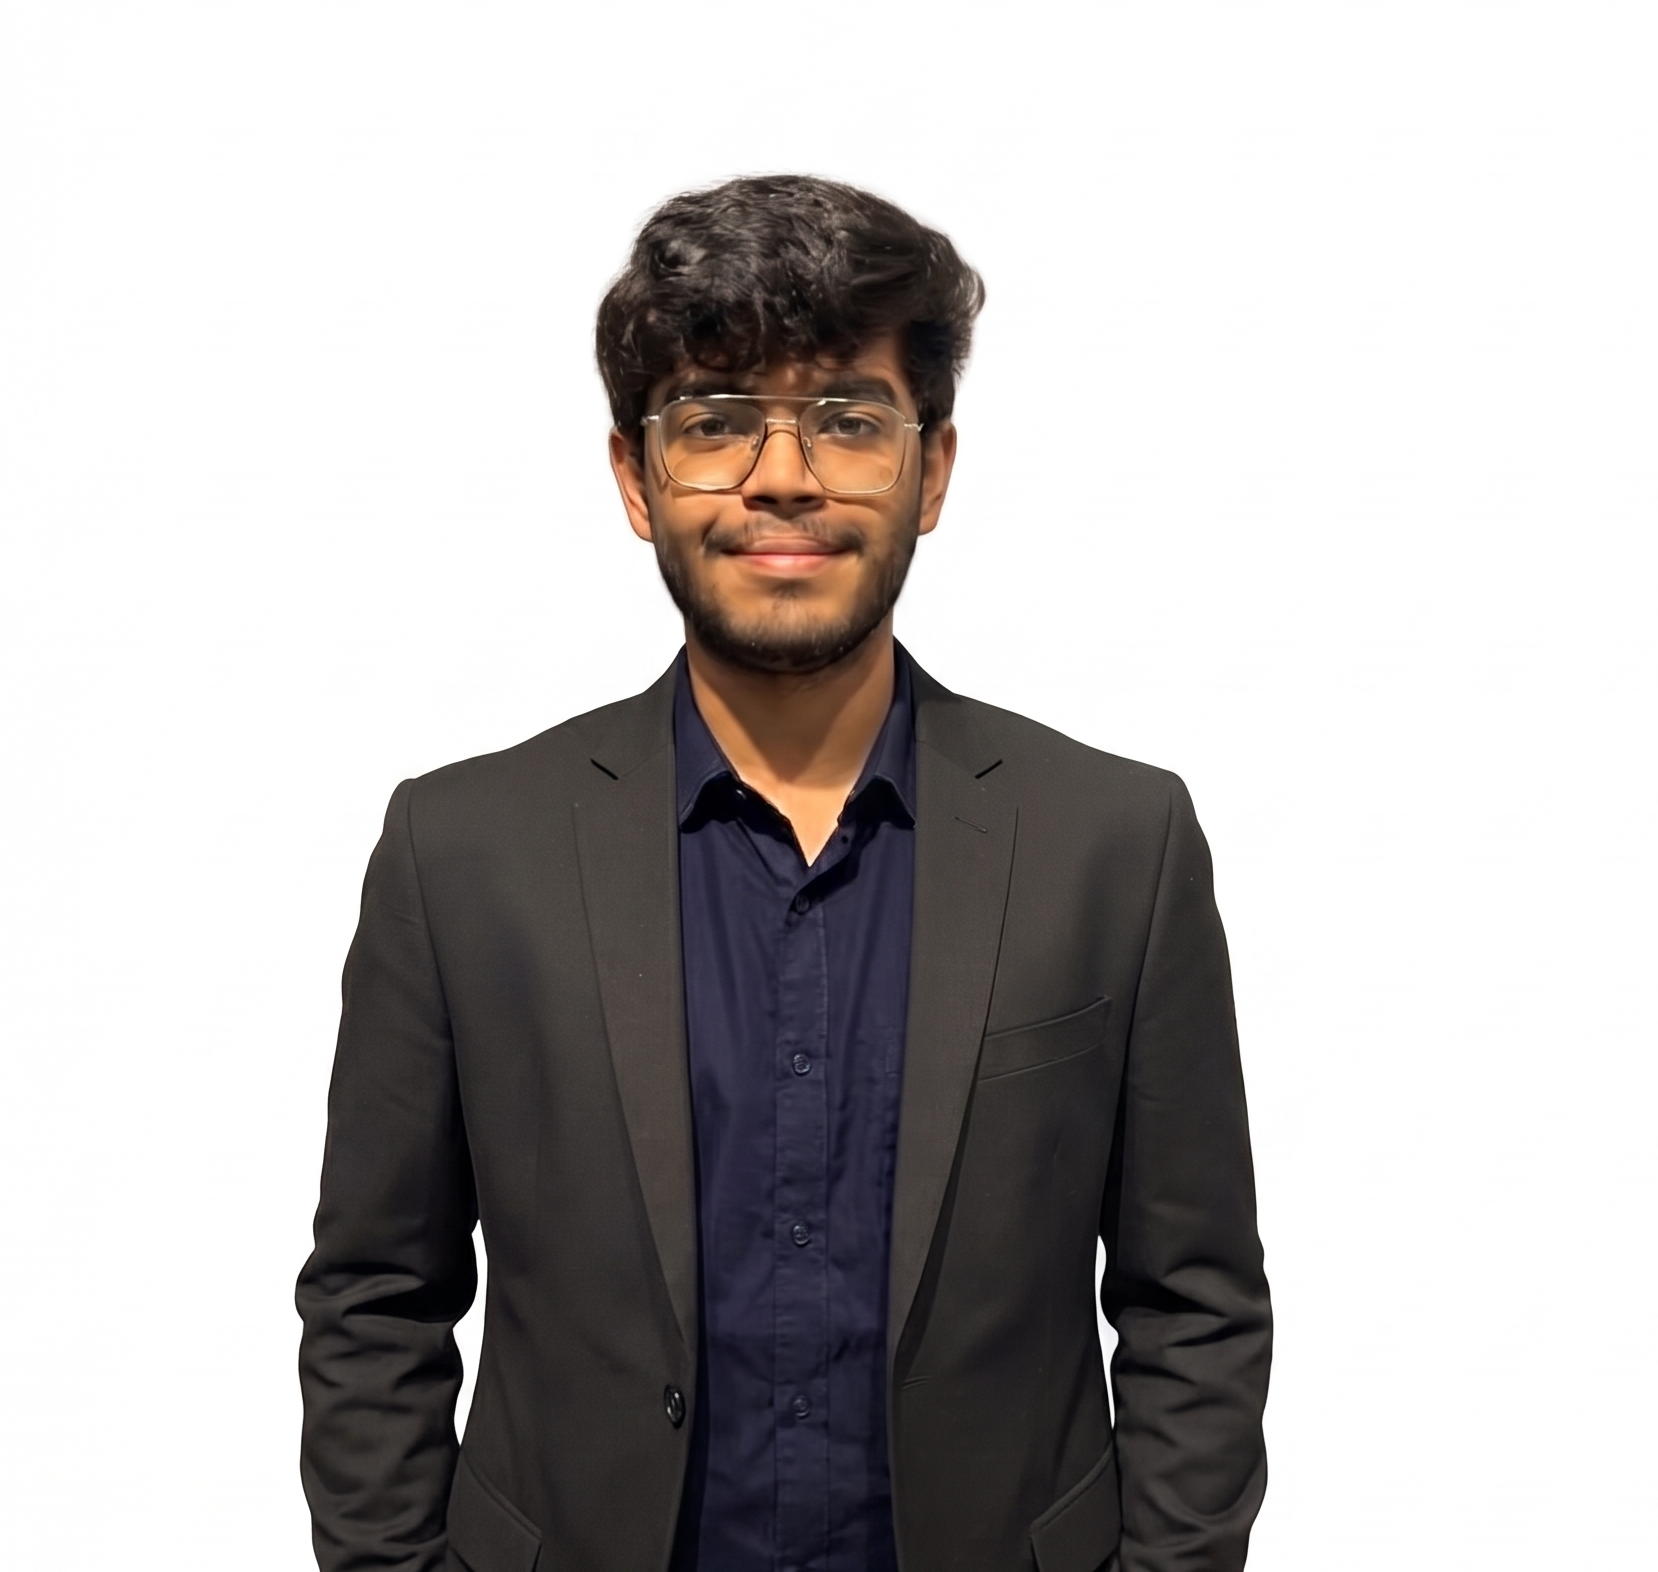
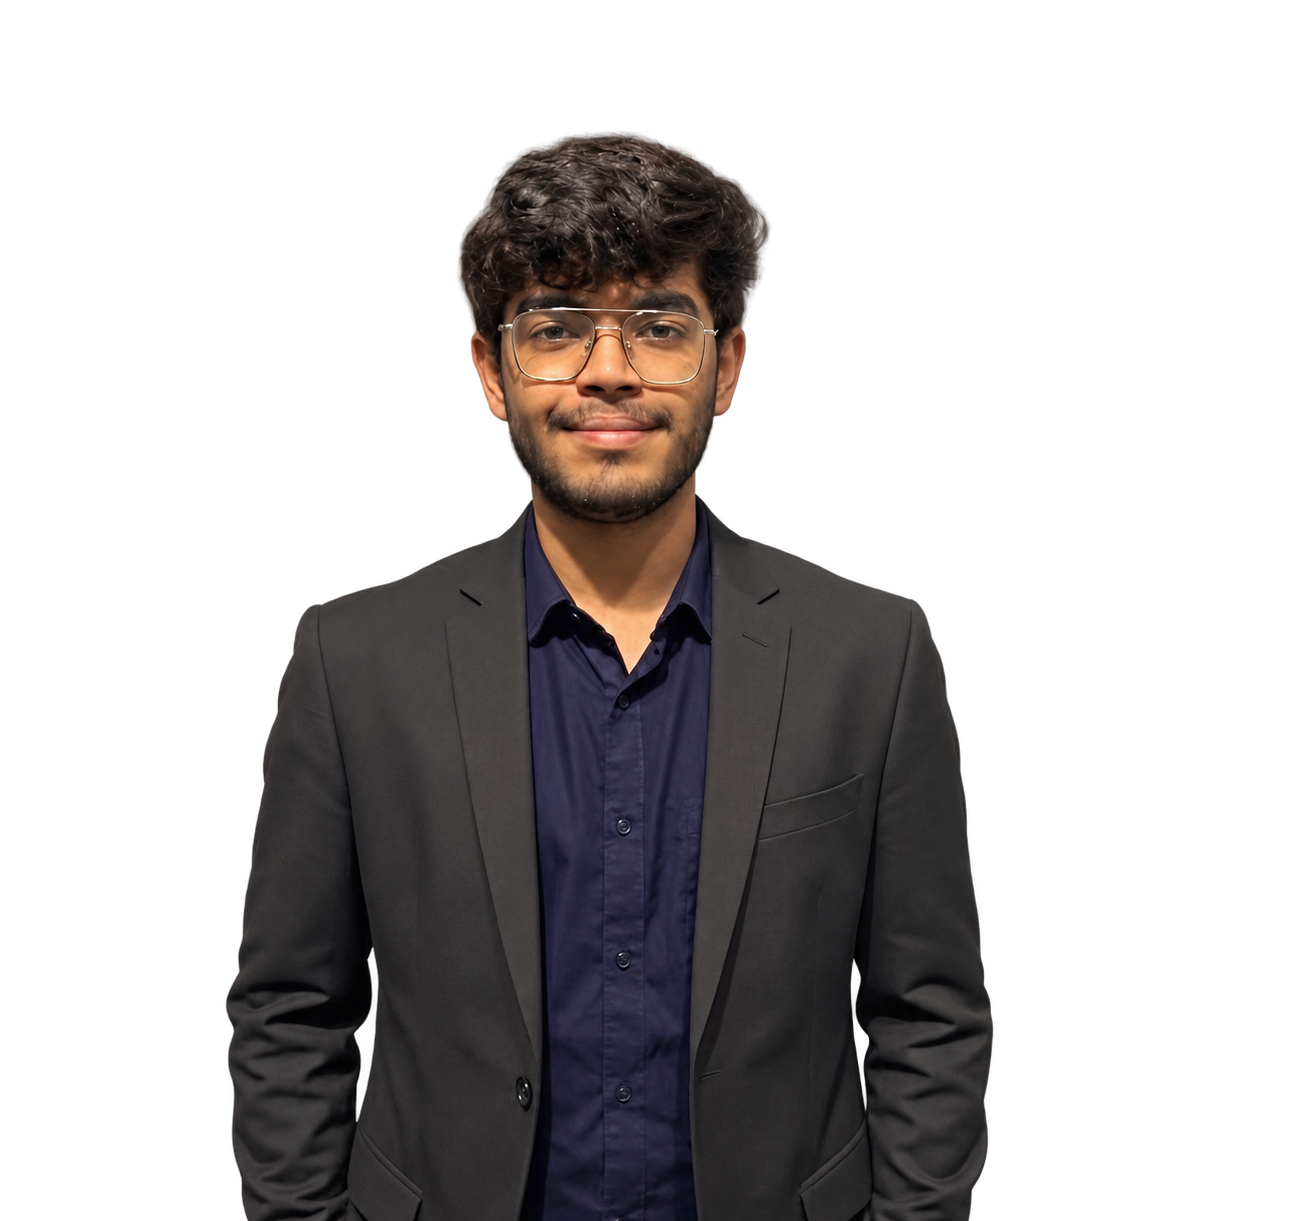
Remove white background from About portrait

diff --git a/src/pages/about/index.html b/src/pages/about/index.html
@@ -33,7 +33,7 @@
         <p class="about-bio">I’m Karthik, an AI Engineer and Backend Developer who finds deep satisfaction in turning chaotic data into structured, automated sanity.</p>
       </div>
       <figure class="about-portrait">
-        <img src="/portrait-color.png" width="1658" height="1572" alt="Color portrait of Karthik Krishna" fetchpriority="high" decoding="async">
+        <img src="/portrait-color.png" width="1289" height="1221" alt="Color portrait of Karthik Krishna" fetchpriority="high" decoding="async">
       </figure>
     </section>
     <section class="about-experience" aria-labelledby="experience-heading" data-scroll-text-section>
